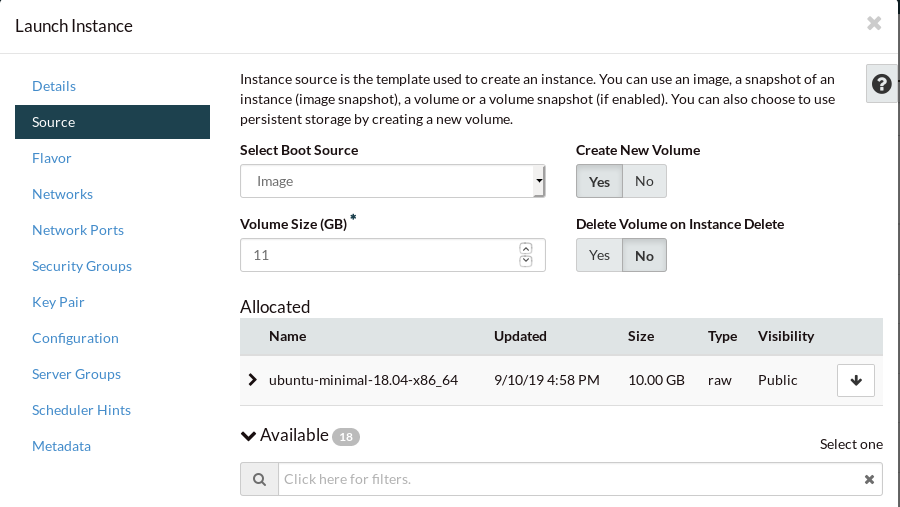
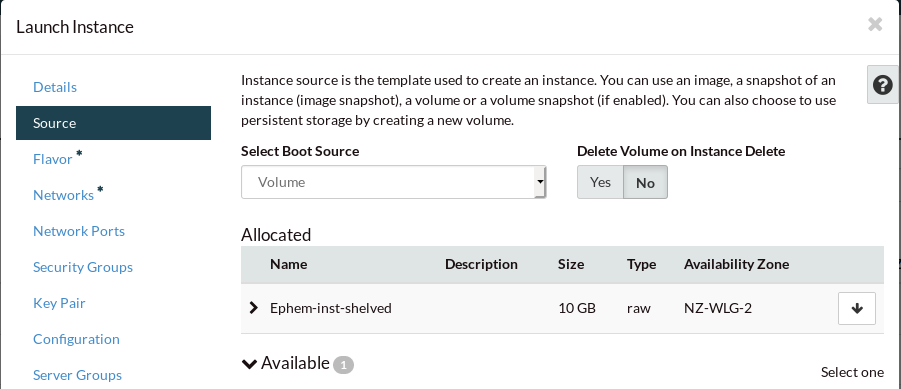
finished the CLI version of changign from ephem to persistant

diff --git a/source/block-storage/ephemeral-replacement.rst b/source/block-storage/ephemeral-replacement.rst
@@ -25,14 +25,15 @@ Via the Dashboard
 Create snapshot
 ---------------
 
-The first step is creating the snapshot of your instance. This is done using
-from the dropdown menu on the ephemeral instance:
+The first step is creating the snapshot of your instance, which is
+automatically done when you shelve an instance:
 
 .. image:: block-storage-assets/Snapshot-ephemeral.png
 
 After this, navigate to the **Images** section of the dashboard and locate your
-named snapshot, for this example we named ours 'Ephemeral-Snapshot'. Click
-create volume and follow the steps to creating a volume from this snapshot.
+snapshot, for this example ours is named 'Ephemeral-instance-shelved'.
+Click create volume and follow the steps to creating a volume from this
+snapshot.
 
 .. image:: block-storage-assets/images-create-volume-red.png
 
@@ -42,13 +43,14 @@ launch as instance on your selected volume. In this case "Ephemeral-Snapshot"
 .. image:: block-storage-assets/volume-create-as-instance-red.png
 
 Then go through the steps to create a new instance, making sure that when you
-arrive at picking a Source, you make sure to have 'Create New Volume' set to
-yes.
+arrive at picking a Source, you make sure to use the volume as a source not
+an image. This should be the default when making an instance from a volume.
 
-.. image:: block-storage-assets/create-with-vol-red.png
+.. image:: block-storage-assets/create-with-vol.png
 
 That should be it, once your new instance is up and running you should be able
-to see all of your files on the new instance, and it will have the new volume.
+to see all of your files on the new instance, and it will have the new volume
+as it's boot source.
 
 Via the CLI
 ===========
@@ -83,13 +85,11 @@ After this you create a volume from your snapshot.
 .. code-block:: bash
 
    #find the correct snapshot, (the list has been truncated for readability)
-   $ openstack image list
+   $ openstack image list | grep ephemeral
    +--------------------------------------+--------------------------------------+--------+
    | ID                                   | Name                                 | Status |
    +--------------------------------------+--------------------------------------+--------+
-   | ...                                  |                                      |        |
    | aa1e6f8d-0689-4eaf-9a13-c2c16391a82c | ephemeral-instance-shelved           | active |
-   | ...                                  |                                      |        |
    +--------------------------------------+--------------------------------------+--------+
 
 
@@ -99,12 +99,9 @@ After this you create a volume from your snapshot.
    --availability-zone NZ-WLG-2 --type b1.standard
 
 
-So at this point we now have a volume that has all of the information from your
-instance snapshot stored on it. From here we need to create the new instance,
-using the --volume flag to set that as the boot device.
-
-To recreate your instance exactly, you are able to use the following to get
-the relevant ID's etc:
+At this point we now have a volume that contains all of the information from
+your instance instance stored on it. From here we need to create the new
+instance, using the --volume flag:
 
 .. code-block:: bash
 
@@ -116,7 +113,7 @@ the relevant ID's etc:
    | 9896d5e5-116f-4aa2-b962-f7b473b080d8 | ephemeral-instance | SHELVED_OFFLOADED | private-net-1=10.0.0.17, 103.254.156.188 | ubuntu-18.04-x86_64          | c1.c1r1 |
    +--------------------------------------+--------------------+-------------------+------------------------------------------+------------------------------+---------+
 
-   # then we get the flavor and image ID's along with the security information from the previous instance
+   # then we get the flavor and image ID's along with the security and network information from the previous instance
    $ openstack server show 9896d5e5-116f-4aa2-b962-f7b473b080d8
    +-----------------------------+------------------------------------------------------------+
    | Field                       | Value                                                      |
@@ -149,14 +146,29 @@ the relevant ID's etc:
    | volumes_attached            | id='09975851-7bb4-4935-814b-2e65d19fd433'                  |
    +-----------------------------+------------------------------------------------------------+
 
+   #You also need to get your private-net id using the following command:
+   $ openstack network show private-net -f value -c id
 
    #We then create our new instance with these parameters.
    $ openstack server create --flavor 6371ec4a-47d1-4159-a42f-83b84b80eea7 \
-   --volume b2285b91-3521-454c-8e4f-91c1e2f7ba9c --nic net-id=550677db-0232-418b-aeb5-f461cf907967 \
-   persistent-volume-instance
+   --volume 666707a2-0835-449a-a093-b14015773cd3 --nic net-id=550677db-0232-418b-aeb5-f461cf907967 \
+   --security-group default --security-group security-group persistent-volume-instance
 
+After this is completed, you should be able to assign a floating IP to your
+instance and SSH to it and you'll find all of your data in tact. The only
+difference now being that your instance now has a persistent volume for
+storage.
 
-   openstack server create --flavor 6371ec4a-47d1-4159-a42f-83b84b80eea7 \
-   --key-name security-key --security-group default --security-group security-group \
-   --volume b2285b91-3521-454c-8e4f-91c1e2f7ba9c --nic net-id=550677db-0232-418b-aeb5-f461cf907967 \
-   persistent-volume-instance
+.. code-block:: bash
+
+   $ openstack floating ip list
+   +--------------------------------------+---------------------+------------------+------+--------------------------------------+----------------------------------+
+   | ID                                   | Floating IP Address | Fixed IP Address | Port | Floating Network                     | Project                          |
+   +--------------------------------------+---------------------+------------------+------+--------------------------------------+----------------------------------+
+   | 50e0c050-db2a-47bf-a478-871a84d1faa9 | 103.254.156.188     | None             | None | e0ba6b88-5360-492c-9c3d-119948356fd3 | eac679e4896146e6827ce29d755fe289 |
+   +--------------------------------------+---------------------+------------------+------+--------------------------------------+----------------------------------+
+
+   $ openstack server add floating ip persistent-volume-instance 103.254.156.188
+
+   #Then you can SSH to your instance
+   $ ssh ubuntu@103.254.156.188
